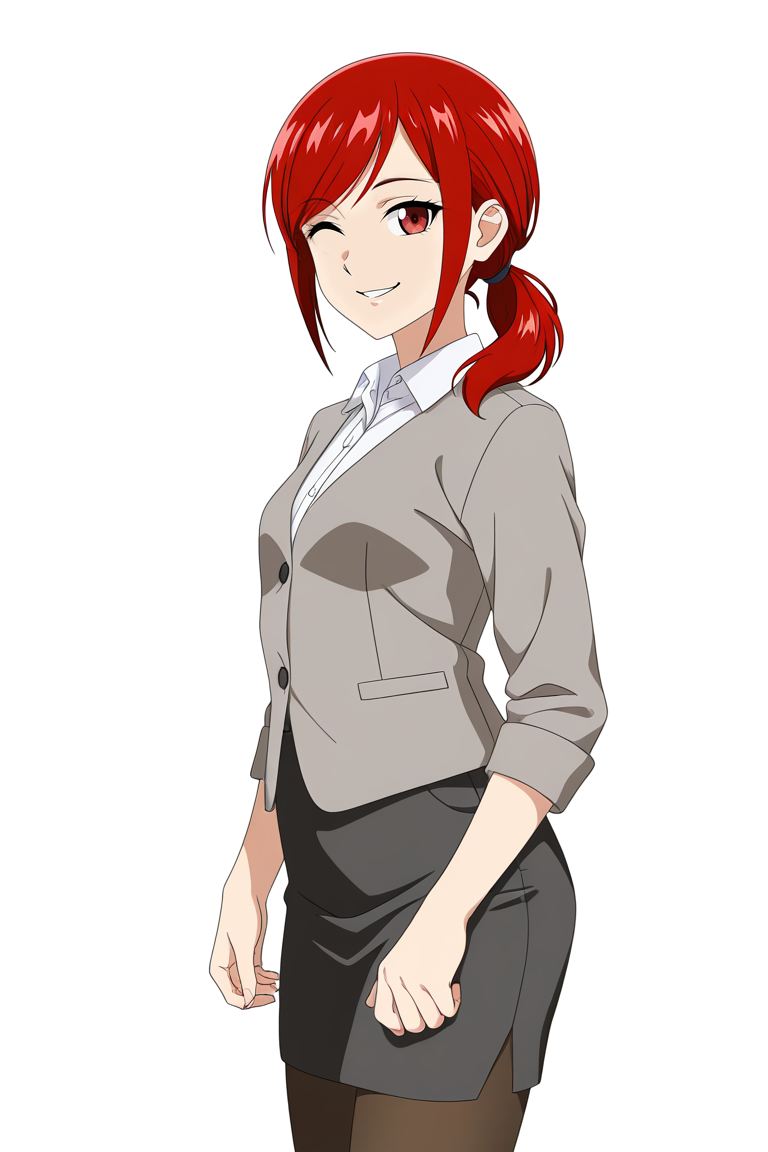
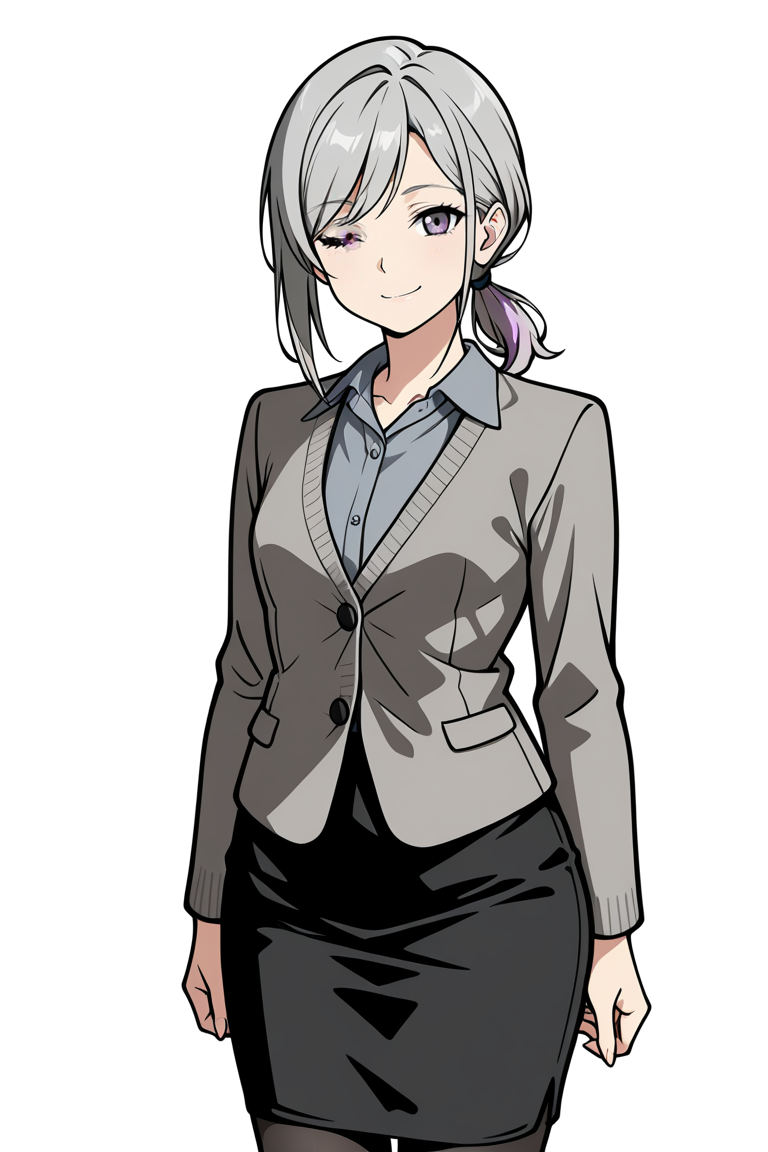
feat: 茉白の新しい立ち絵を背景透過し、商用可モデルへの移行を記録
透過:
- 白髪はこのスクリプトにとって最も危険な条件（白い部分＝背景とみなすため）なので、
  上書き前に「消される候補」を色分けした確認画像を作り、髪や服に掛かっていない
  ことを目視してから実行した。7箇所すべて正しく背景だった
- 結果: 透明率は7枚とも56.5%で一致（体と輪郭が完全に同一＝inpaintが効いている）、
  取り残した純白 187〜287px、縁の明るさ平均 207、髪は上位1%でも242で
  しきい値250に届いていない。危惧された「髪ごと消える」は起きなかった
- 原本は work-assets/chara/mashiro/_original_opaque/ へ退避済み

商用可モデルへの移行（PNGメタデータから判明）:
- 使用モデルは holyMixIllustriousxl_v1（Holy Mix [illustriousXL]）
- ハッシュ 71f6653377 が Civitai API の AutoV2 と一致することを確認
- allowCommercialUse に Image を含む＝生成画像の商用利用が可能
- これで立ち絵という収益化のブロッカーは茉白について解消した。
  残り5人も同じモデル・同じ設定で作れば作品全体が商用可になる

未解決として記録:
- grey eyes が効かず瞳が紫、毛先にも薄紫が乗っている。紫は紫音の色なので
  「名前＝髪色」で見分ける本作では紛らわしい。対処法をアセットガイドに記載

diff --git a/docs/06_credits.md b/docs/06_credits.md
@@ -2,9 +2,9 @@
 
 最終更新: 2026-08-15
 
-> **【方針・2026-08-15 確定】立ち絵は、生成画像の商用利用が許諾されたモデルで作り直す。**
-> 現在の茉白の立ち絵は**暫定**であり、公開前に差し替える。手順は §5。
-> 差し替えが完了するまでは、**現行素材のままでの有料販売・投げ銭はできない**。
+> **【2026-08-15 完了】茉白の立ち絵を商用可モデル（Holy Mix [illustriousXL]）で作り直した。**
+> **残っているのはヒロイン5人ぶんだけ**で、同じモデルで作れば作品全体が商用利用可能になる。
+> 詳細は §4、手順は §5。
 
 > **素材を使ったら、その場でここに記録すること。** 公開直前にまとめようとすると必ず破綻する。
 > クレジット表記が必要な素材は、ゲーム内のクレジット画面にも反映する。
@@ -115,21 +115,46 @@
 
 | 素材 | 状況 |
 |---|---|
-| **茉白（PNG・AI生成・表情7種）** | **⚠ 設定と食い違っている。** `public/assets/chara/mashiro/*.png`（768×1152・背景透過済み）。**旧「茜」時代に生成した緋色の髪**であり、改名（2026-08-15）で髪色が**白**に変わったため**作り直しが必要**。動作確認のため暫定で置いてあるだけ |
+| **茉白（PNG・AI生成・表情7種）** | ✅ **本素材**。`public/assets/chara/mashiro/*.png`（768×1152・背景透過済み）。**商用可モデルで作り直し済み**（2026-08-15） |
 | 茉白（SVG・自作） | 予備。PNGが読めないときのフォールバック。`src/ui/sprites/MashiroSprite.tsx` |
-| その他5名 | **未着手のまま据え置く**（キャラクターカラーのシルエットで代用中）。**商用可モデルを決めてから作る**ほうが安いため |
-
-> **なぜ今すぐ作り直さないのか**: 現行の立ち絵でもゲームは成立しており、
-> シナリオ本文の執筆が先に詰まっている。作り直しは**35枚を新規に作るのと同じ工程**なので、
-> 「残り5人を作るとき」にまとめてやるのが最も無駄がない。
-> **逆に、残り5人を今の商用不可モデルで作ってしまうと42枚が無駄になる。**
-> したがって **5人の立ち絵に着手する時点が、モデル移行のタイミング**である。
+| その他5名 | 未着手（キャラクターカラーのシルエットで代用中）。**茉白と同じ Holy Mix で作る** |
 
 ### 画像生成に使ったモデルの記録
 
-| キャラ | 生成環境 | モデル名 | seed |
-|---|---|---|---|
-| 茉白 | reForge（Stability Matrix） | `illustriousXLPersonalMerge_v30Noob10based` | **2180441173** |
+| キャラ | 生成環境 | モデル名 | seed | 商用 |
+|---|---|---|---|---|
+| **茉白**（現行） | reForge（Stability Matrix） | **`holyMixIllustriousxl_v1`** | **3402663755** | ✅ `Image` あり |
+| ~~茜（旧・廃棄）~~ | reForge | ~~`illustriousXLPersonalMerge_v30Noob10based`~~ | ~~2180441173~~ | ❌ `Image` なし |
+
+**現行モデル: Holy Mix [illustriousXL] High contrast anime checkpoint**
+
+| 項目 | 値 |
+|---|---|
+| モデルページ | <https://civitai.com/models/959490> |
+| ファイル | `holyMixIllustriousxl_v1.safetensors` |
+| ハッシュ | **AutoV2 `71F6653377`**（PNGメタデータの `Model hash: 71f6653377` と一致することを確認済み） |
+| baseModel | Illustrious |
+| `allowCommercialUse` | **`Image, RentCivit, Rent`** ← **`Image` を含む＝生成画像の商用利用が可能** |
+| `allowNoCredit` | `true`（クレジット表記は任意） |
+| `allowDerivatives` / `allowDifferentLicense` | ともに `true` |
+
+**生成パラメータ（PNGメタデータから採取・実測値）**
+
+| 項目 | 値 |
+|---|---|
+| Sampler | Euler a |
+| Steps | 20 |
+| CFG scale | **7**（アセットガイドの推奨は5だったが、実際は7で作られている） |
+| Size | 768 × 1152 |
+| Clip skip | 2 |
+
+> **これで「立ち絵が商用不可」というブロッカーは茉白について解消した。**
+> 残り5人も同じ Holy Mix で作れば、作品全体が商用利用可能になる（§5）。
+
+#### 【参考・履歴】旧モデルで起きていた問題
+
+以下は**廃棄した旧モデル**（`illustriousXLPersonalMerge_v30Noob10based`）の調査記録である。
+同じ轍を踏まないために残す。**現行の素材には適用されない。**
 
 - モデルページ: <https://civitai.com/models/835655>（作者: dims2）
 - ベースライセンス: **Fair AI Public License 1.0-SD**
@@ -187,10 +212,18 @@
 
 ---
 
-## 5. 立ち絵を商用可モデルで作り直す手順 【確定：2026-08-15】
+## 5. 立ち絵を商用可モデルで作る手順 【茉白は完了：2026-08-15】
 
-**ユーザー判断により、収益化の選択肢を残すため、立ち絵は商用利用が許諾されたモデルで作り直す。**
-実施時期は **「残り5人の立ち絵に着手するとき」**（§4 の理由）。それまでは現行の茉白を暫定で使う。
+**収益化の選択肢を残すため、立ち絵は商用利用（`Image`）が許諾されたモデルで作る。**
+
+| 対象 | 状況 |
+|---|---|
+| **茉白** | ✅ **完了。** Holy Mix [illustriousXL] で7表情を生成・透過済み |
+| 葵・翠・橙香・紫音・桃果 | ❌ 未着手（35枚）。**同じ Holy Mix で作ること**（絵柄を揃えるため） |
+
+> **採用モデルは、当初の第一候補 CAT ではなく Holy Mix になった。**
+> どちらも Illustrious 系で `Image` を含むため条件は同等であり、**実際に描かせた絵で選べばよい。**
+> 5人ぶんも**同じモデル・同じ生成パラメータ**で作ること。ここがぶれると絵柄が揃わない。
 
 ### 結論: **ブロッカーは立ち絵だけ。** 他の素材はすべて商用利用可
 

diff --git a/docs/04_asset-guide.md b/docs/04_asset-guide.md
@@ -298,6 +298,12 @@ school uniform, hat, glasses, miniskirt,
 cropped, head out of frame, from behind
 ```
 
+> **【2026-08-15 実測・未解決】`grey eyes` が効かず、瞳が紫になった。**
+> ネガティブに `purple hair` が入っているのに、**毛先にも薄紫が乗っている。**
+> 紫は**紫音のイメージカラー**なので、「名前＝髪色」で人物を見分ける本作では紛らわしい。
+> 直すなら `(grey eyes:1.3)` に強調をかけ、ネガティブへ `purple eyes, gradient hair, colored tips` を足す。
+> **現行の素材はこの状態のまま採用している**（ユーザー判断待ち）。
+
 **髪色の指定が最重要。** ピンク・オレンジ・金髪に転びやすいので、ネガティブで他の髪色を全部潰してある。
 **他ヒロインの色（青・翠・橙・紫・桃）も入っている**ので、この5人を作るときは該当色をネガティブから外すこと。
 
@@ -311,11 +317,21 @@ cropped, head out of frame, from behind
 
 ### 推奨パラメータ
 
+> **実際に茉白を作ったときの設定（2026-08-15・PNGメタデータより）。5人ぶんもこれに揃えること。**
+>
+> | 項目 | 値 |
+> |---|---|
+> | モデル | **`holyMixIllustriousxl_v1`**（Holy Mix [illustriousXL]・商用可） |
+> | Sampler / Steps | Euler a / 20 |
+> | **CFG Scale** | **7** ← 下の推奨は5だが、実際は7で良好な結果が出ている |
+> | Size / Clip skip | 768 × 1152 / 2 |
+> | seed（`normal`） | **3402663755** |
+
 | 項目 | 値 | 備考 |
 |---|---|---|
 | Sampling method | **Euler a**（または DPM++ 2M SDE Karras） | どちらでも可 |
 | Sampling steps | **20** | PCが落ちるため28から下げた |
-| CFG Scale | **5** | アニメ系SDXLは低めが安定 |
+| CFG Scale | 5〜**7** | 実績があるのは **7**（上の実測を参照） |
 | Width × Height | **768 × 1152** | 512×512では破綻する。**PCが落ちるため832×1216から下げた** |
 | **Clip skip** | **2** | **最重要。4だとプロンプトを聞かなくなる** |
 | Hires. fix | **無効（切る）** | **PCが落ちるため。拡大は後から Extras タブで行う** |
@@ -497,8 +513,24 @@ realistic, 3d
 **透過した直後に必ず「髪の毛先」と「頭頂部のハイライト」を拡大して確認すること。**
 欠けていたら `SOLID_BG` を上げる（250 → 252）。それでも欠けるなら生成側が明るすぎる。
 
-> 以下の検証値（透明率65%など）は**旧・茜（緋色の髪／白いYシャツ）で測ったもの**である。
-> 白髪＋グレーのシャツで作り直したら、**数値は必ず取り直すこと。**
+#### 白髪での実測値（茉白・2026-08-15）
+
+**心配された「髪が背景ごと消える」は起きなかった。** 設計どおりに機能している。
+
+| 項目 | 結果 |
+|---|---|
+| 透明率 | 7枚すべて **56.5%** で一致（＝体と輪郭が完全に同一。inpaintが正しく効いている） |
+| 隙間の除去 | 1枚あたり **7箇所 / 約6,748px**（髪と首の間・腕と体の間） |
+| 取り残した純白 | **187〜287px**（実用上ゼロ） |
+| 縁の明るさ平均 | **207**（250に近いと白フチ。問題なし） |
+| 髪の明るさ | 中央値 **206** ／ 上位1% でも **242** ← しきい値 250 に届いていない |
+
+**実行前に必ず「消される候補」を目視すること。** 白髪では下見の価値が特に高い。
+外周背景をシアン、囲まれた白領域をマゼンタで塗った画像を作って確認すると、
+**髪に色が乗っていないか**が一目で分かる。茉白では7箇所すべてが正しく背景だった。
+
+> 以前の検証値（透明率65%など）は**旧・茜（緋色の髪／白いYシャツ）で測ったもの**であり、
+> 現行素材には当てはまらない。
 
 ### なぜ rembg を使わないのか
 

diff --git a/docs/00_instruction-log.md b/docs/00_instruction-log.md
@@ -986,3 +986,73 @@ https://note.com/kazumu/n/n09f0174d8257#6064c0f9-eb60-4415-8320-ab5bbddbe3e3
 
 - **立ち絵の作り直し**（商用可モデルへの移行と同時に行うのが最も安い。`06_credits.md` §5）。
 - 各ヒロインのデート4回目以降を書く（第1.5段階）。
+
+---
+
+## 016. 2026-08-15 ― 茉白の新しい立ち絵の背景透過
+
+### ユーザーからの指示（原文）
+
+~~~text
+ましろの立ち絵を作成したので背景を透過して。ｌ
+~~~
+
+### Claudeの対応
+
+#### 1. 実行前に「消される領域」を目視で確認した
+
+白髪は本スクリプトにとって**最も危険な条件**（白い部分＝背景とみなす仕組みのため）。
+いきなり上書きせず、次の順で進めた。
+
+1. 原本を `work-assets/chara/mashiro/_original_opaque/` へ退避
+2. **消される候補を色分けした確認画像を作成**（外周背景=シアン／囲まれた白領域=マゼンタ）
+3. マゼンタが**髪や服に掛かっていないこと**を目で確認 → 7箇所すべて正しく背景だった
+4. 確認後に `remove-bg.py` を実行
+
+#### 2. 結果 ― 危惧された事故は起きなかった
+
+| 項目 | 結果 |
+|---|---|
+| 透明率 | 7枚すべて **56.5%** で一致（体と輪郭が完全に同一＝inpaintが正しく効いている） |
+| 隙間の除去 | 7箇所 / 約6,748px（髪と首の間・腕と体の間） |
+| 取り残した純白 | 187〜287px（実用上ゼロ） |
+| 縁の明るさ平均 | **207**（250に近いと白フチ。問題なし） |
+| 髪の明るさ | 中央値 206 ／ 上位1%でも 242 ← しきい値250に**届いていない** |
+
+**プロンプト側で「純白にしない・白い服を着せない」と決めておいたことが、そのまま効いた。**
+実測値は `04_asset-guide.md` §3.6 に記録した。
+
+#### 3. 【重要な副産物】収益化のブロッカーが解消した
+
+PNGのメタデータから生成情報を採取したところ、**使用モデルが商用可のものだった。**
+
+| 項目 | 値 |
+|---|---|
+| モデル | **`holyMixIllustriousxl_v1`**（Holy Mix [illustriousXL]） |
+| ハッシュ | `71f6653377` ← Civitai API の `AutoV2 71F6653377` と**一致を確認** |
+| `allowCommercialUse` | **`Image, RentCivit, Rent`** ← **`Image` を含む＝生成画像の商用利用が可能** |
+| seed | 3402663755 ／ CFG 7 ／ Euler a 20steps ／ 768×1152 ／ Clip skip 2 |
+
+`06_credits.md` §4・§5 と `CLAUDE.md` §4.6 を「作り直しが必要」から
+**「茉白は完了。残るは5人ぶん」**に書き換えた。
+**残り5人も同じ Holy Mix・同じパラメータで作れば、作品全体が商用利用可能になる。**
+
+#### 4. 未解決として記録した点
+
+- **`grey eyes` が効かず、瞳が紫になっている。** 毛先にも薄紫が乗っている
+  （ネガティブに `purple hair` を入れていたにもかかわらず）
+- 紫は**紫音のイメージカラー**であり、「名前＝髪色」で人物を見分ける本作では紛らわしい
+- 直すなら `(grey eyes:1.3)` ＋ ネガティブに `purple eyes, gradient hair, colored tips`
+- **現行素材はこの状態のまま採用**し、`04_asset-guide.md` §2 に対処法を書いて判断を仰ぐ
+
+### 決定事項
+
+- **茉白の立ち絵は本素材として採用**（白髪・7表情・背景透過済み・商用可モデル）。
+- **立ち絵のモデルは Holy Mix [illustriousXL] に確定。** 残り5人も同じモデル・同じ設定で作る。
+- 白髪の透過は、**実行前に必ず「消される候補」を色分けして目視する**こと。
+
+### 次アクション
+
+- 瞳と毛先の紫をどうするか（このまま採用 / 作り直し）の判断。
+- 残り5人の立ち絵（35枚）。
+- 各ヒロインのデート4回目以降を書く（第1.5段階）。

diff --git a/docs/05_implementation-status.md b/docs/05_implementation-status.md
@@ -21,7 +21,7 @@
 | **週スケジュール画面**（12週・行動枠） | ✅ | `src/ui/ScheduleScreen.tsx` |
 | **5角形のパラメータ表示＋変動通知** | ✅ | `src/ui/ParamPentagon.tsx` |
 | **立ち絵の配置**（相手を中央に正面。主人公の立ち絵は無い） | ✅ | `src/ui/StageLayer.tsx` |
-| **茉白の立ち絵（PNG・表情7種・背景透過済み）** | ⚠ **要・作り直し**（旧「茜」時代の緋色の髪。改名で白になった） | `public/assets/chara/mashiro/*.png` |
+| **茉白の立ち絵（PNG・表情7種・背景透過済み）** | ✅ **本素材**（白髪・商用可モデルで作り直し済み） | `public/assets/chara/mashiro/*.png` |
 | 茉白の立ち絵（SVG製・予備） | ✅ フォールバック用に温存 | `src/ui/sprites/MashiroSprite.tsx` |
 | 背景透過スクリプト | ✅ | `scripts/remove-bg.py` |
 | **条件分岐（branch）** | ✅ | `engine.ts` の `matchesCase` |
